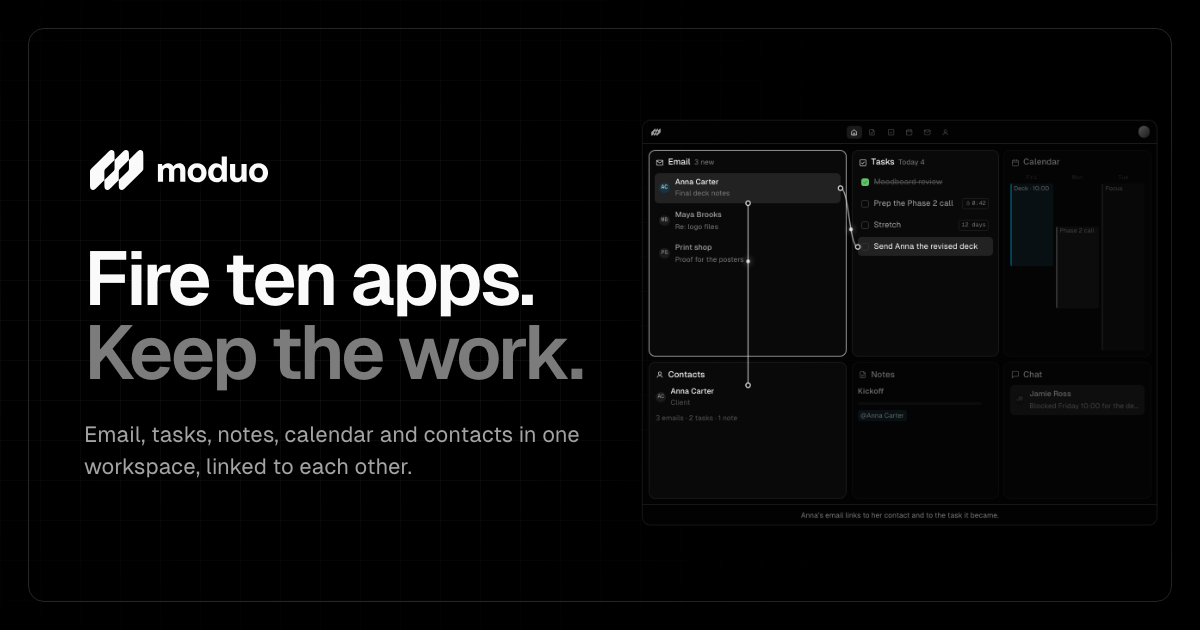
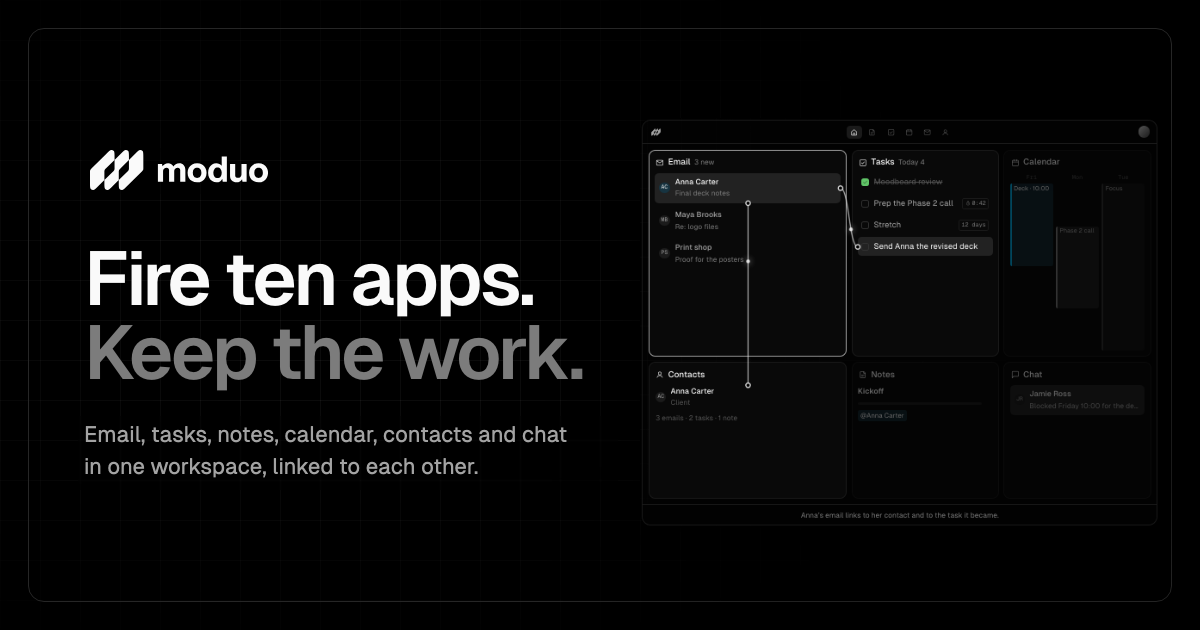
Add chat to the share image's subcopy and alt text

Changed region(s): [[0.0617, 0.6635, 0.4933, 0.754], [0.185, 0.6635, 0.2158, 0.6937]]

diff --git a/landing/index.html b/landing/index.html
@@ -20,7 +20,7 @@
     <meta property="og:image" content="https://www.moduo.app/assets/og.png" />
     <meta property="og:image:width" content="1200" />
     <meta property="og:image:height" content="630" />
-    <meta property="og:image:alt" content="Fire ten apps. Keep the work. Moduo links email, tasks, notes, calendar and contacts in one workspace." />
+    <meta property="og:image:alt" content="Fire ten apps. Keep the work. Moduo links email, tasks, notes, calendar, contacts and chat in one workspace." />
     <meta name="twitter:card" content="summary_large_image" />
     <meta name="twitter:image" content="https://www.moduo.app/assets/og.png" />
     <link rel="canonical" href="https://www.moduo.app/" />

diff --git a/landing/parked/live-hero.html b/landing/parked/live-hero.html
@@ -29,7 +29,7 @@
     <meta property="og:image" content="https://www.moduo.app/assets/og.png" />
     <meta property="og:image:width" content="1200" />
     <meta property="og:image:height" content="630" />
-    <meta property="og:image:alt" content="Fire ten apps. Keep the work. Moduo links email, tasks, notes, calendar and contacts in one workspace." />
+    <meta property="og:image:alt" content="Fire ten apps. Keep the work. Moduo links email, tasks, notes, calendar, contacts and chat in one workspace." />
     <meta name="twitter:card" content="summary_large_image" />
     <meta name="twitter:image" content="https://www.moduo.app/assets/og.png" />
     <link rel="canonical" href="https://www.moduo.app/" />

diff --git a/docs/testing/t-maciej-brand-4-landing-alignment.md b/docs/testing/t-maciej-brand-4-landing-alignment.md
@@ -22,7 +22,7 @@ Local preview: `PORT=8765 bun scripts/preview-landing.ts`, then open http://127.
 - [ ] **Do:** open /manifesto, /privacy and /terms → **Expect:** the nav shows the lockup artwork (no typed "Moduo"), dark in light mode and white in dark mode; the "Light"/"Dark" toggle flips it. No reveal on these pages. _(web)_
 
 ## Share image
-- [ ] **Do:** open http://127.0.0.1:8765/assets/og.png → **Expect:** the same card as before, with the drawn lockup top left instead of the typed "moduo"; the headline, grid, frame and product picture are untouched. _(web)_
+- [ ] **Do:** open http://127.0.0.1:8765/assets/og.png → **Expect:** the same card as before, with the drawn lockup top left instead of the typed "moduo", and the subcopy now reads "Email, tasks, notes, calendar, contacts and chat / in one workspace, linked to each other." The headline, grid, frame and product picture are untouched. _(web)_
 - [ ] **Do:** after Mike merges, paste https://www.moduo.app into the LinkedIn Post Inspector or opengraph.xyz → **Expect:** the new card (social sites cache the old one; the inspector refreshes it). _(web)_
 
 ## Code-level checks (no visible change)
